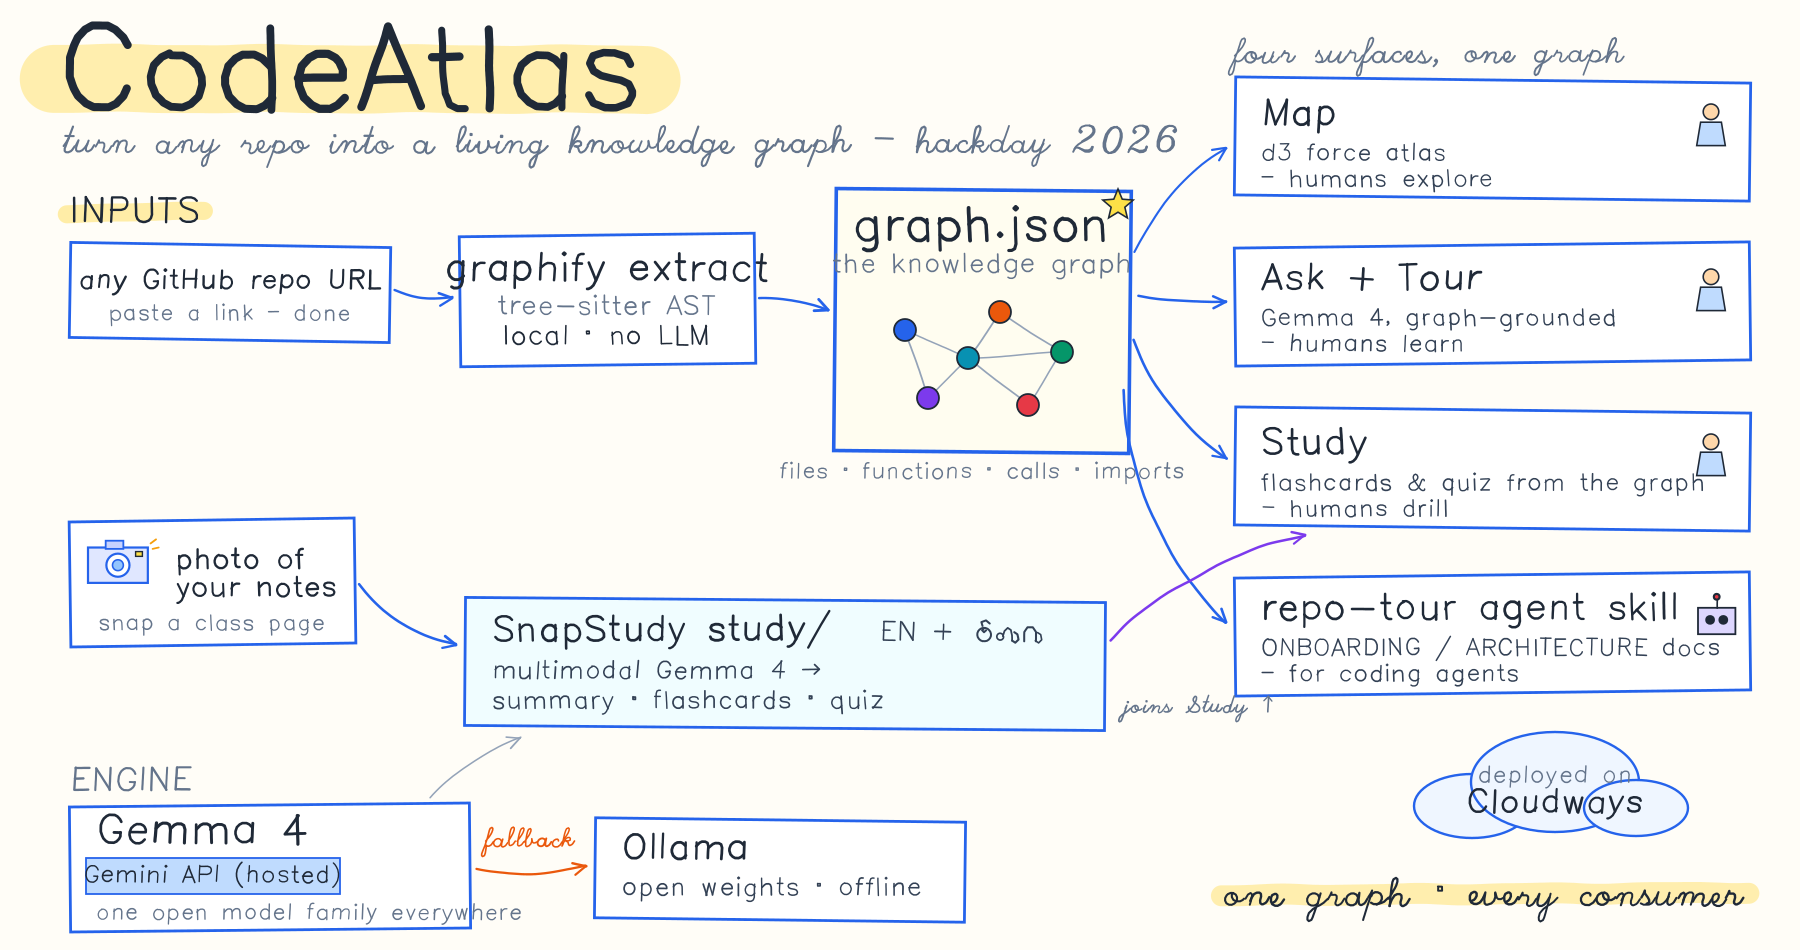
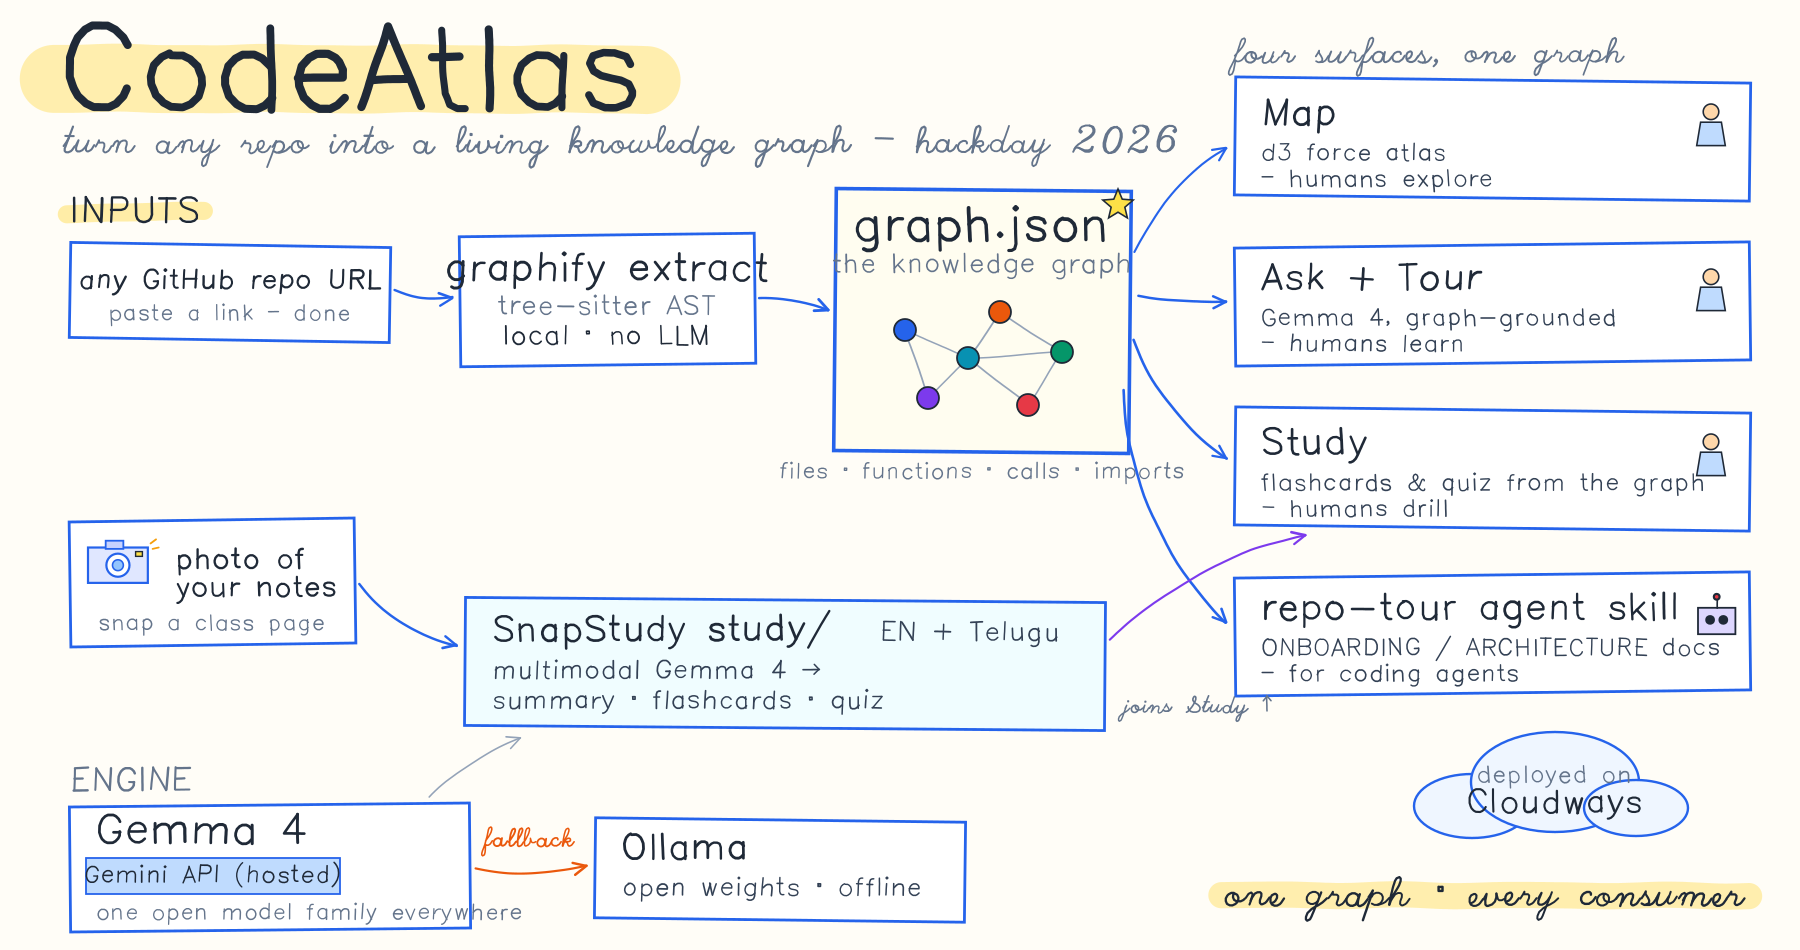
Diagram: clean Latin 'EN + Telugu'; add dark-theme screenshot
Hand-approximated Telugu glyphs risked reading wrong to Telugu-literate
judges; Latin is honest and unambiguous. Screenshots now show both the
paper and night notebook, matching their caption.

diff --git a/README.md b/README.md
@@ -82,9 +82,13 @@ All of it collapses to instant, motion-free states under `prefers-reduced-motion
 
 ## Screenshots
 
-**Explore** — memolite mapped; Lumenar "engineer's notebook" design, light and dark.
+**Explore** — memolite mapped; Lumenar "engineer's notebook" design in the paper notebook…
 
-![Knowledge graph of memolite on a graph-paper canvas with a handwritten modules legend](docs/screenshots/graph.png)
+![Knowledge graph of memolite on a graph-paper canvas with a handwritten modules legend, light theme](docs/screenshots/graph.png)
+
+…and the night notebook.
+
+![The same graph in the dark night-notebook theme](docs/screenshots/graph-dark.png)
 
 **Ask** — Gemma 4 answers from the graph, with file:line citations.
 
